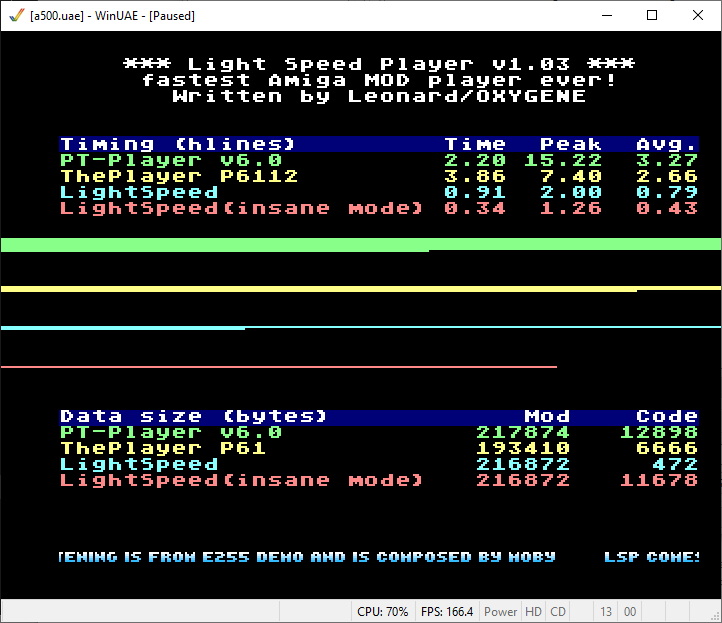
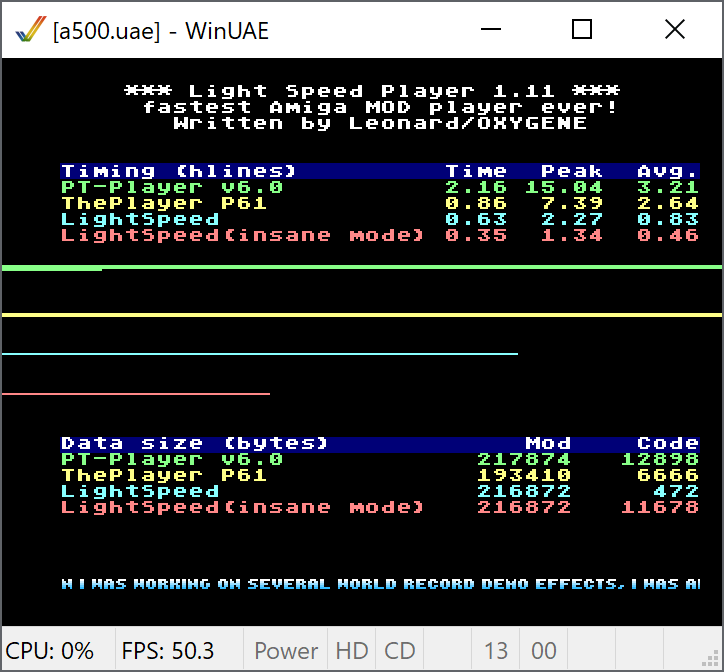
update benchmark screenshot with v1.11

diff --git a/README.md b/README.md
@@ -14,7 +14,7 @@ Here is a speed comparaison of different Amiga music players. Numbers are given 
 LSP Features  | Normal Mode | Insane Mode
 ----------|-------------|------------
 Code size | ~ 500 bytes | ~16KiB, depends of music
-Average Time | 0.82 scanline         | 0.46 scanline
+Average Time | 0.83 scanline         | 0.46 scanline
 Peak Time | 2.27 scanlines   | 1.34 scanline
 Seq Timing support | yes     | no
 
